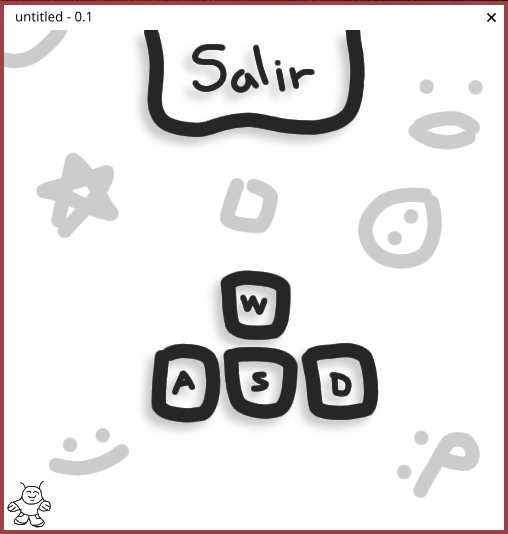
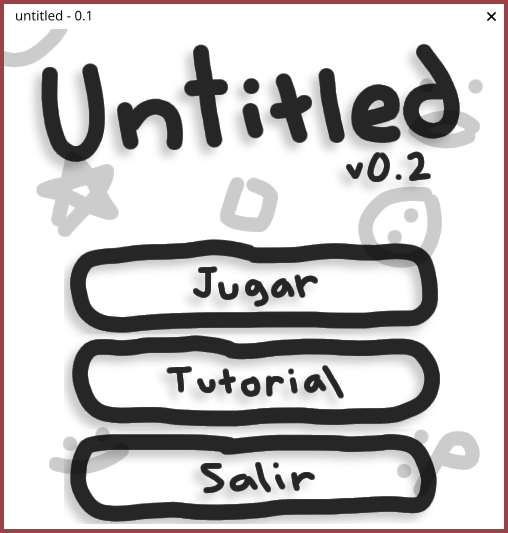
menú inicial primitivo

diff --git a/untitled.c b/untitled.c
@@ -3,9 +3,9 @@
 #include <raylib.h>
 
 // Declarando funciones antes de definirlas.
-int menu(unsigned int* escena_a_cambiar, unsigned int* escena_actual_ptr, float* temporizador_fondo_ptr, Texture2D* fondo_ptr, Texture2D* fondo_2_ptr, Texture2D* titulo_ptr, Texture2D* titulo_2_ptr);
+int menu(unsigned int* escena_a_cambiar_ptr, unsigned int* escena_actual_ptr, float* temporizador_fondo_ptr, Texture2D* fondo_ptr, Texture2D* fondo_2_ptr, Texture2D* titulo_ptr, Texture2D* titulo_2_ptr, Texture2D* jugar_ptr, Texture2D* jugar_2_ptr, Texture2D* tutorial_ptr, Texture2D* tutorial_2_ptr, Texture2D* salir_ptr, Texture2D* salir_2_ptr);
 int tutorial(bool* depuracion_ptr, unsigned int* escena_a_cambiar, unsigned int* escena_actual_ptr, float* posicion_jugador_x_ptr, float* posicion_jugador_y_ptr, Vector2* coordenadas_espacio_ptr, float* temporizador_fondo_ptr, float* escala_espacio_ptr, Texture2D* fondo_ptr, Texture2D* fondo_2_ptr, Texture2D* espacio_ptr, Texture2D* espacio_2_ptr, Texture2D* cursor_ptr, Music* musica_ptr, Rectangle* hitbox_jugador_ptr, Rectangle* hitbox_salir_ptr);
-int primerminijuego(unsigned int* escena_a_cambiar, unsigned int* escena_actual_ptr, float* temporizador_fondo_ptr, Texture2D* fondo_ptr, Texture2D* fondo_2_ptr);
+int primermj(unsigned int* escena_a_cambiar, unsigned int* escena_actual_ptr, float* temporizador_fondo_ptr, Texture2D* fondo_ptr, Texture2D* fondo_2_ptr);
 
 // Función principal.
 int main(void) {
@@ -51,6 +51,12 @@ int main(void) {
 				Texture2D* menu_fondo_2_ptr = MemAlloc(sizeof(Texture2D));
 				Texture2D* titulo_ptr = MemAlloc(sizeof(Texture2D));
 				Texture2D* titulo_2_ptr = MemAlloc(sizeof(Texture2D));
+				Texture2D* jugar_ptr = MemAlloc(sizeof(Texture2D));
+				Texture2D* jugar_2_ptr = MemAlloc(sizeof(Texture2D));
+				Texture2D* tutorial_ptr = MemAlloc(sizeof(Texture2D));
+				Texture2D* tutorial_2_ptr = MemAlloc(sizeof(Texture2D));
+				Texture2D* salir_ptr = MemAlloc(sizeof(Texture2D));
+				Texture2D* salir_2_ptr = MemAlloc(sizeof(Texture2D));
 
 				// Asignando valores a los datos anteriormente creados.
 				*menu_temporizador_fondo_ptr = 0;
@@ -58,6 +64,12 @@ int main(void) {
 				*menu_fondo_2_ptr = LoadTexture("recursos/fondos/menu_2.png");
 				*titulo_ptr = LoadTexture("recursos/sprites/titulo.png");
 				*titulo_2_ptr = LoadTexture("recursos/sprites/titulo_2.png");
+				*jugar_ptr = LoadTexture("recursos/sprites/jugar.png");
+				*jugar_2_ptr = LoadTexture("recursos/sprites/jugar_2.png");
+				*tutorial_ptr = LoadTexture("recursos/sprites/tutorial.png");
+				*tutorial_2_ptr = LoadTexture("recursos/sprites/tutorial_2.png");
+				*salir_ptr = LoadTexture("recursos/sprites/salir.png");
+				*salir_2_ptr = LoadTexture("recursos/sprites/salir_2.png");
 
 				// Cambiando de escena.
 				escena_actual = 1;
@@ -66,16 +78,28 @@ int main(void) {
 
 			// Ejecutando menú.
 			case 1:
-				menu(escena_a_cambiar_ptr, escena_actual_ptr, menu_temporizador_fondo_ptr, menu_fondo_ptr, menu_fondo_2_ptr, titulo_ptr, titulo_2_ptr);
+				menu(escena_a_cambiar_ptr, escena_actual_ptr, menu_temporizador_fondo_ptr, menu_fondo_ptr, menu_fondo_2_ptr, titulo_ptr, titulo_2_ptr, jugar_ptr, jugar_2_ptr, tutorial_ptr, tutorial_2_ptr, salir_ptr, salir_2_ptr);
 			break;
 
 			// Liberando memoria reservada para el menú.
 			case 2:
 
+				UnloadTexture(*salir_2_ptr);
+				UnloadTexture(*salir_ptr);
+				UnloadTexture(*tutorial_2_ptr);
+				UnloadTexture(*tutorial_ptr);
+				UnloadTexture(*jugar_2_ptr);
+				UnloadTexture(*jugar_ptr);
 				UnloadTexture(*titulo_2_ptr);
 				UnloadTexture(*titulo_ptr);
 				UnloadTexture(*menu_fondo_2_ptr);
 				UnloadTexture(*menu_fondo_ptr);
+				MemFree(salir_2_ptr);
+				MemFree(salir_ptr);
+				MemFree(tutorial_2_ptr);
+				MemFree(tutorial_ptr);
+				MemFree(jugar_2_ptr);
+				MemFree(jugar_ptr);
 				MemFree(titulo_2_ptr);
 				MemFree(titulo_ptr);
 				MemFree(menu_fondo_2_ptr);
@@ -180,16 +204,16 @@ int main(void) {
 			case 6:
 		
 				// Reservando memoria para el temporizador.
-				float* primerminijuego_temporizador_fondo_ptr = MemAlloc(sizeof(float));
+				float* primermj_temporizador_fondo_ptr = MemAlloc(sizeof(float));
 
 				// Reservando memoria para texturas.
-				Texture2D* primerminijuego_fondo_ptr = MemAlloc(sizeof(Texture2D));
-				Texture2D* primerminijuego_fondo_2_ptr = MemAlloc(sizeof(Texture2D));
+				Texture2D* primermj_fondo_ptr = MemAlloc(sizeof(Texture2D));
+				Texture2D* primermj_fondo_2_ptr = MemAlloc(sizeof(Texture2D));
 
 				// Asignando valores a los datos anteriormente creados.
-				*primerminijuego_temporizador_fondo_ptr = 0;
-				*primerminijuego_fondo_ptr = LoadTexture("recursos/fondos/tutorial.png");
-				*primerminijuego_fondo_2_ptr = LoadTexture("recursos/fondos/tutorial_2.png");
+				*primermj_temporizador_fondo_ptr = 0;
+				*primermj_fondo_ptr = LoadTexture("recursos/fondos/tutorial.png");
+				*primermj_fondo_2_ptr = LoadTexture("recursos/fondos/tutorial_2.png");
 
 				// Cambiando de escena.
 				escena_actual = 7;
@@ -198,20 +222,24 @@ int main(void) {
 
 			// Ejecutando primer mini juego.
 			case 7:
-				primerminijuego(escena_a_cambiar_ptr, escena_actual_ptr, primerminijuego_temporizador_fondo_ptr, primerminijuego_fondo_ptr, primerminijuego_fondo_2_ptr);
+				primermj(escena_a_cambiar_ptr, escena_actual_ptr, primermj_temporizador_fondo_ptr, primermj_fondo_ptr, primermj_fondo_2_ptr);
 			break;
 
 			// Liberando memoria reservada para el primer mini juego.
 			case 8:
 
-				UnloadTexture(*primerminijuego_fondo_2_ptr);
-				UnloadTexture(*primerminijuego_fondo_ptr);
-				MemFree(primerminijuego_fondo_2_ptr);
-				MemFree(primerminijuego_fondo_ptr);
-				MemFree(primerminijuego_temporizador_fondo_ptr);
+				UnloadTexture(*primermj_fondo_2_ptr);
+				UnloadTexture(*primermj_fondo_ptr);
+				MemFree(primermj_fondo_2_ptr);
+				MemFree(primermj_fondo_ptr);
+				MemFree(primermj_temporizador_fondo_ptr);
 
 				// Cambiando de escena.
 				escena_actual = escena_a_cambiar;
+
+			break;
+
+			case 9:
 
 			break;
 
@@ -233,7 +261,7 @@ int main(void) {
 }
 
 // Menú.
-int menu(unsigned int* escena_a_cambiar_ptr, unsigned int* escena_actual_ptr, float* temporizador_fondo_ptr, Texture2D* fondo_ptr, Texture2D* fondo_2_ptr, Texture2D* titulo_ptr, Texture2D* titulo_2_ptr) {
+int menu(unsigned int* escena_a_cambiar_ptr, unsigned int* escena_actual_ptr, float* temporizador_fondo_ptr, Texture2D* fondo_ptr, Texture2D* fondo_2_ptr, Texture2D* titulo_ptr, Texture2D* titulo_2_ptr, Texture2D* jugar_ptr, Texture2D* jugar_2_ptr, Texture2D* tutorial_ptr, Texture2D* tutorial_2_ptr, Texture2D* salir_ptr, Texture2D* salir_2_ptr) {
 
 	// Comprobando entradas del jugador.
 	if (IsKeyDown(KEY_P)) {
@@ -245,6 +273,12 @@ int menu(unsigned int* escena_a_cambiar_ptr, unsigned int* escena_actual_ptr, fl
 	if (IsKeyDown(KEY_L)) {
 	
 		*escena_a_cambiar_ptr = 6;
+		*escena_actual_ptr = 2;
+	
+	}
+	if (IsKeyDown(KEY_M)) {
+	
+		*escena_a_cambiar_ptr = 9;
 		*escena_actual_ptr = 2;
 	
 	}
@@ -260,17 +294,23 @@ int menu(unsigned int* escena_a_cambiar_ptr, unsigned int* escena_actual_ptr, fl
 	if (*temporizador_fondo_ptr > 1) {
 		
 		DrawTexture(*fondo_2_ptr, 0, 0, WHITE);
+		DrawTexture(*titulo_ptr, 20, 0, WHITE);
+		DrawTexture(*jugar_ptr, 60, 210, WHITE);
+		DrawTexture(*tutorial_ptr, 60, 305, WHITE);
+		DrawTexture(*salir_ptr, 60, 400, WHITE);
 		*temporizador_fondo_ptr += 2 * GetFrameTime();
 	
 	}
 	else {
 		
 		DrawTexture(*fondo_ptr, 0, 0, WHITE);
+		DrawTexture(*titulo_2_ptr, 20, 0, WHITE);
+		DrawTexture(*jugar_2_ptr, 60, 210, WHITE);
+		DrawTexture(*tutorial_2_ptr, 60, 305, WHITE);
+		DrawTexture(*salir_2_ptr, 60, 400, WHITE);
 		*temporizador_fondo_ptr += 2 * GetFrameTime();
 
 	}
-
-	return 0;
 
 }
 
@@ -419,7 +459,7 @@ int tutorial(bool* depuracion_ptr, unsigned int* escena_a_cambiar_ptr, unsigned 
 }
 
 // Primer minijuego.
-int primerminijuego(unsigned int* escena_a_cambiar, unsigned int* escena_actual_ptr, float* temporizador_fondo_ptr, Texture2D* fondo_ptr, Texture2D* fondo_2_ptr) {
+int primermj(unsigned int* escena_a_cambiar, unsigned int* escena_actual_ptr, float* temporizador_fondo_ptr, Texture2D* fondo_ptr, Texture2D* fondo_2_ptr) {
 
 	// Comprobando entradas del jugador.
 	if (IsKeyDown(KEY_P)) {
